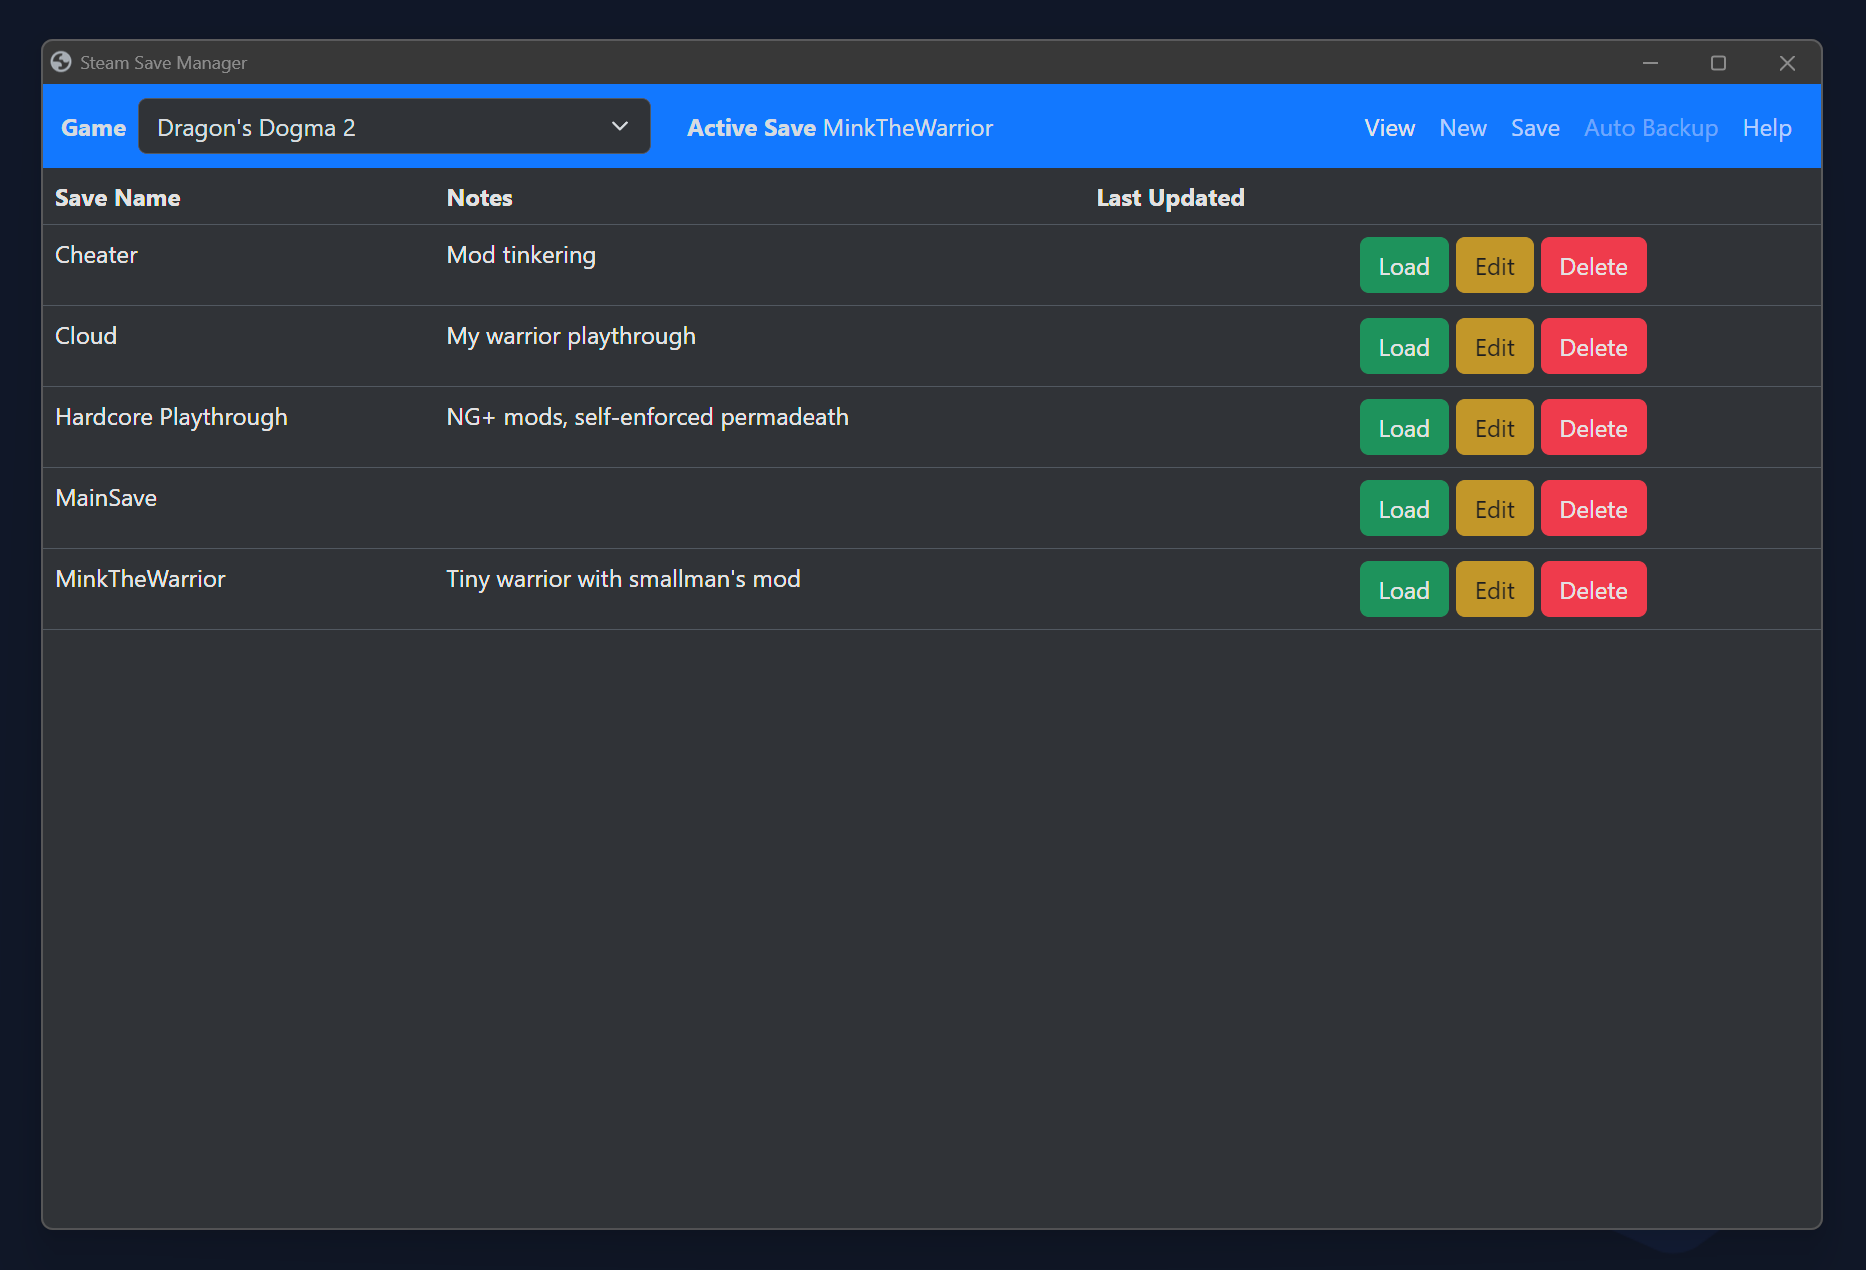
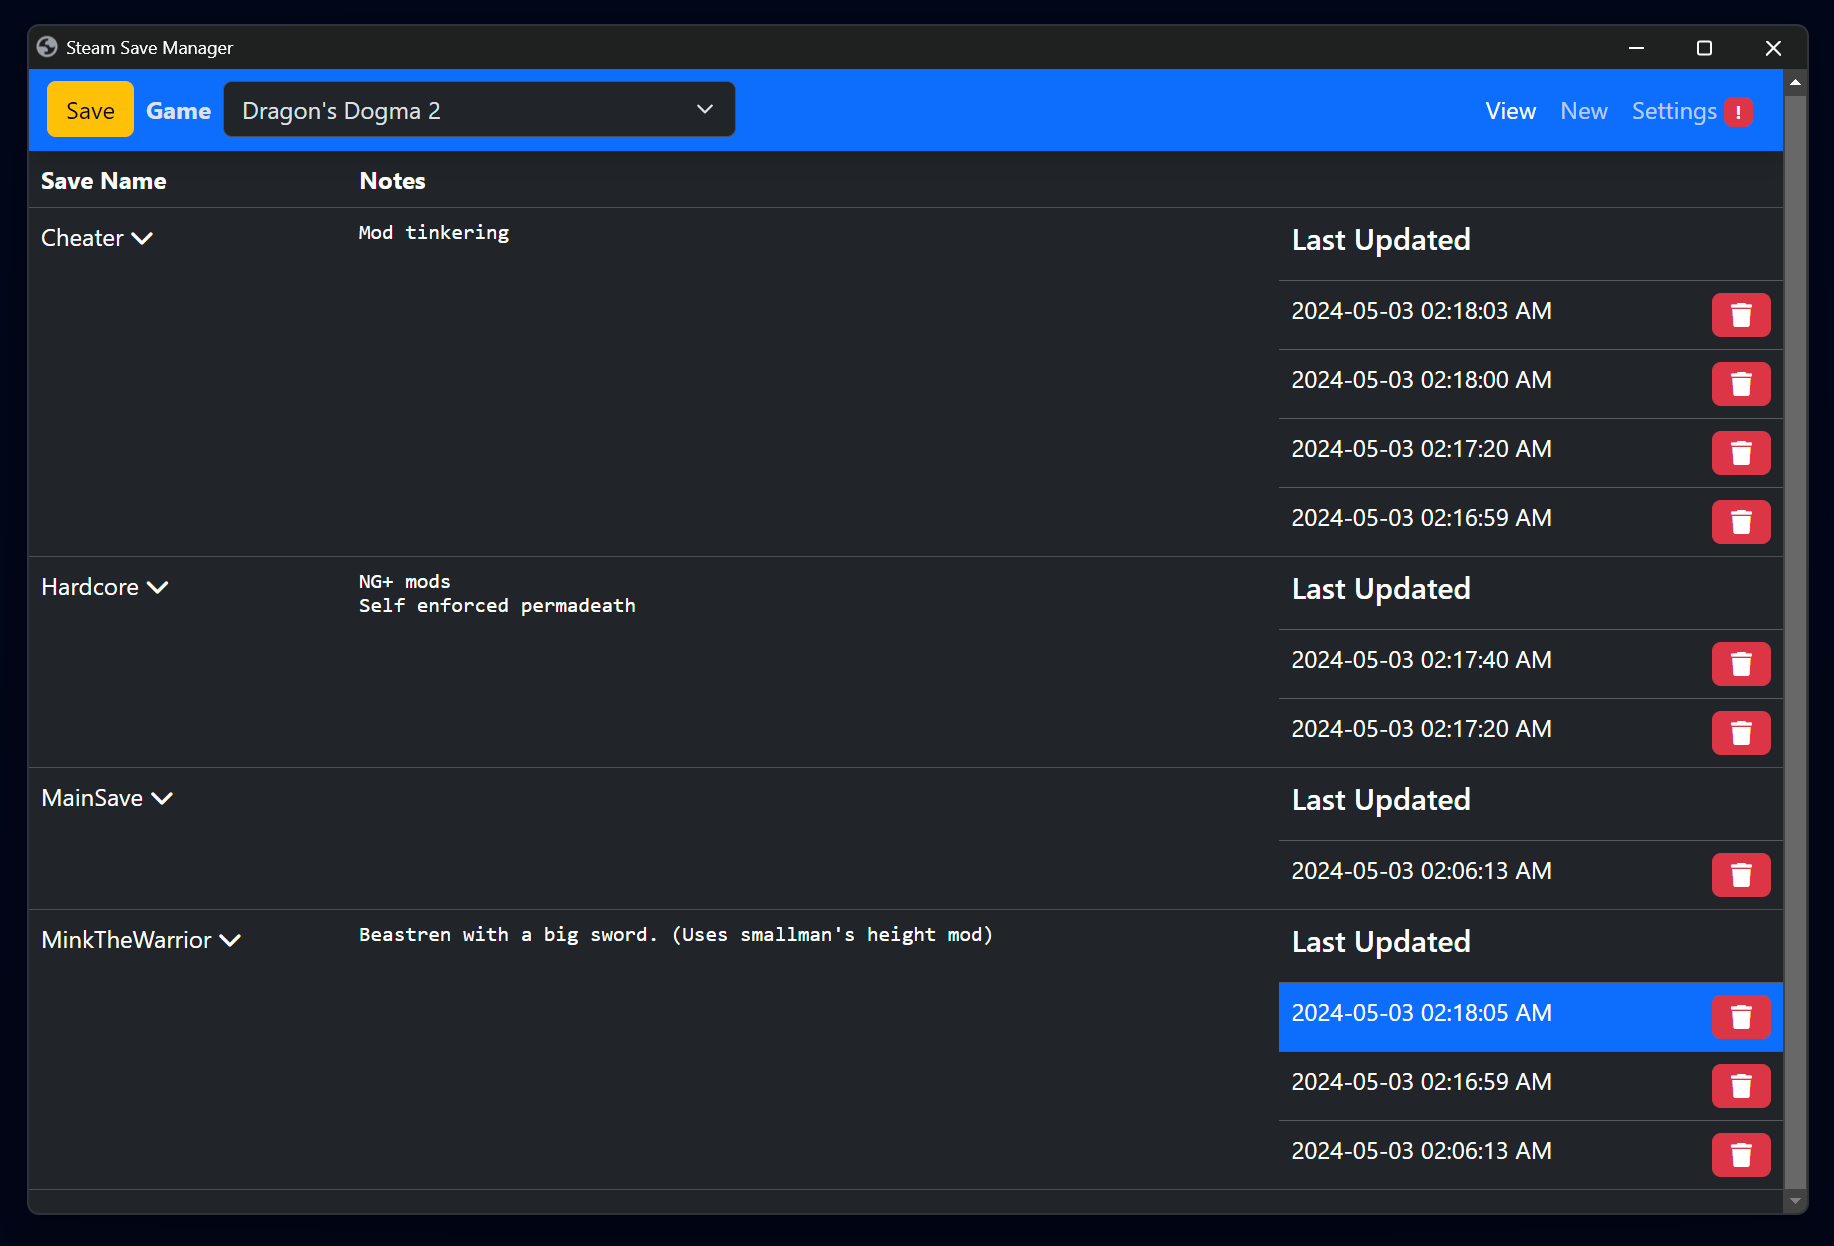
updated readme.md

diff --git a/README.md b/README.md
@@ -7,12 +7,11 @@ A Python program for managing multiple Steam save files.
 - Start a new save whenever you want without losing your progress on other saves
 - Create saves and switch between them
 - Unlimited number of save files
+- Backup individual saves
 - Automatic updating
 
 # Planned Features
-- Backups on saves
 - Automatic backups while application is running (on interval)
-- Editing save names and notes
 - Import saves
 
 # Disclaimer
